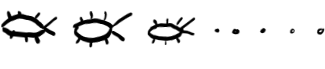
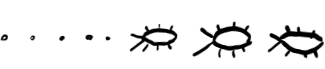
move cfawling bugs to left of screen and fix gutter

Changed region(s): [[0.1846, 0.1739, 0.8, 0.8406], [0.8, 0.3478, 1.0, 0.8406], [0.0, 0.1449, 0.1846, 0.6377]]

diff --git a/src/issues/issue-1/rejecting-materialism.js b/src/issues/issue-1/rejecting-materialism.js
@@ -33,15 +33,12 @@ const RejectingMaterialismChart = () => {
         when rejecting materialism <br /> leads to great profits
       </H2>
       <Img
-        style={{ maxWidth: "800px", margin: "auto" }}
+        style={{ maxWidth: "800px", margin: "auto", marginBottom: "15px" }}
         fluid={chartsImage.node.childImageSharp.fluid}
       />
       <Img
         style={{
-          width: "200px",
-          position: "relative",
-          marginLeft: "90%",
-          marginTop: "15px",
+          maxWidth: "200px",
         }}
         fluid={bugsImage.node.childImageSharp.fluid}
       />
